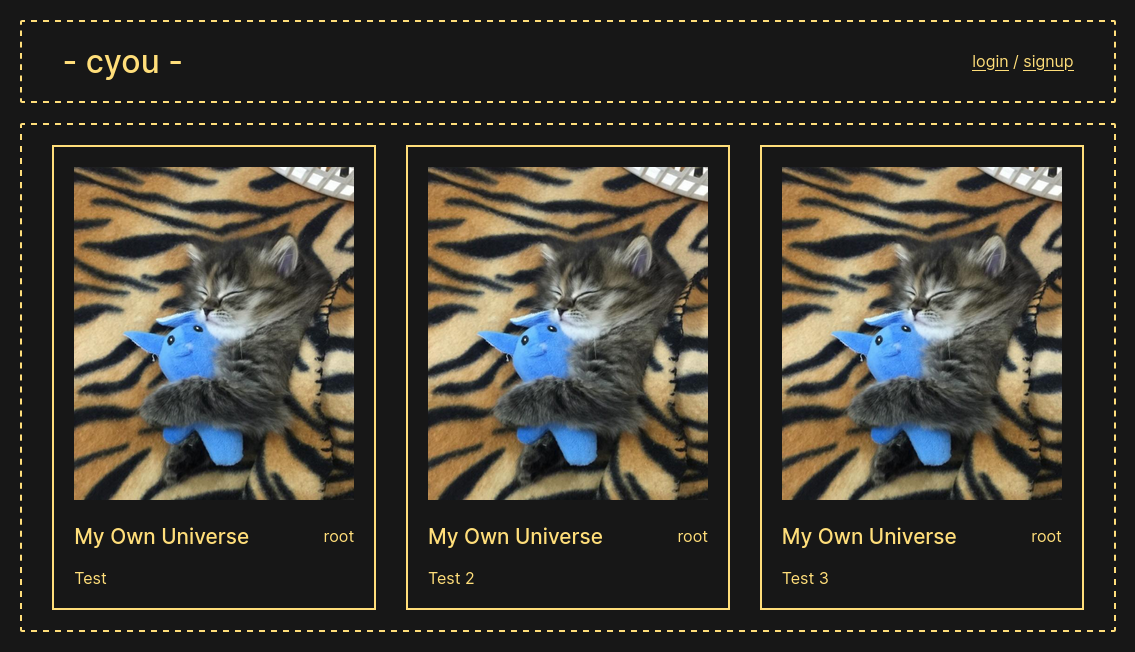
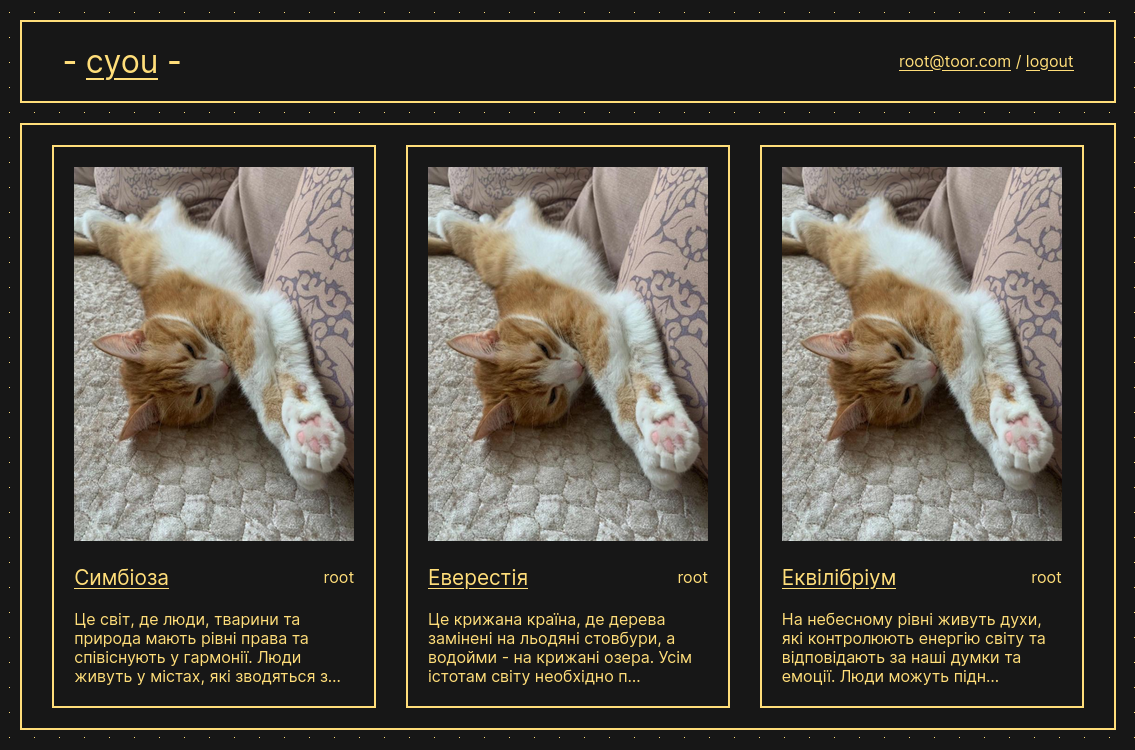
Added awesome dots background

diff --git a/static/base/main.css b/static/base/main.css
@@ -6,6 +6,9 @@ body {
   flex-direction: column;
   justify-content: center;
   background-color: #171717;
+  background-image: radial-gradient(#ffde7a 5%, #171717 5%);
+  background-position: 0 0;
+  background-size: 25px 25px;
 }
 body * {
   color: #ffde7a;
@@ -14,7 +17,8 @@ body * {
   user-select: none;
 }
 body header {
-  border: #ffde7a 2px dashed;
+  border: #ffde7a 2px solid;
+  background-color: #171717;
   width: auto;
   margin: 20px;
   padding: 20px;
@@ -30,7 +34,8 @@ body header > div:first-child {
 }
 
 #content {
-  border: #ffde7a 2px dashed;
+  background-color: #171717;
+  border: #ffde7a 2px solid;
   width: auto;
   padding: 10px;
   margin: 0 20px 20px;

diff --git a/static/base/main.sass b/static/base/main.sass
@@ -10,6 +10,10 @@ body
 
   background-color: #171717
 
+  background-image: radial-gradient(#ffde7a 5%, #171717 5%)
+  background-position: 0 0
+  background-size: 25px 25px
+
   *
     color: #ffde7a
     font-family: 'Inter', sans-serif
@@ -17,7 +21,9 @@ body
     user-select: none
 
   header
-    border: #ffde7a 2px dashed
+    border: #ffde7a 2px solid
+
+    background-color: #171717
 
     width: auto
     margin: 20px
@@ -34,7 +40,8 @@ body
       font-weight: 500
 
 #content
-  border: #ffde7a 2px dashed
+  background-color: #171717
+  border: #ffde7a 2px solid
   width: auto
   padding: 10px
   margin: 0 20px 20px
